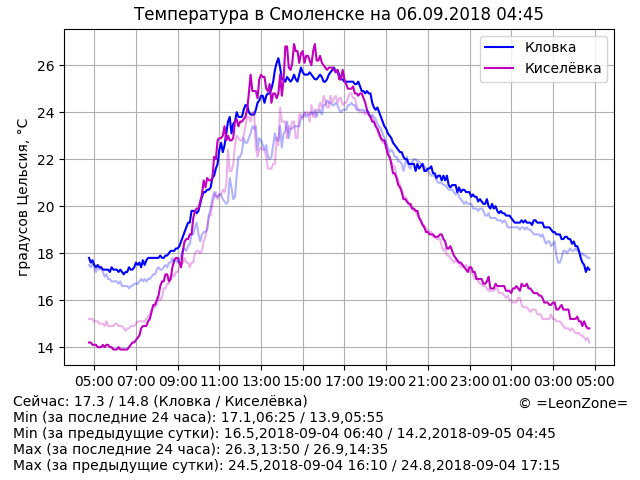
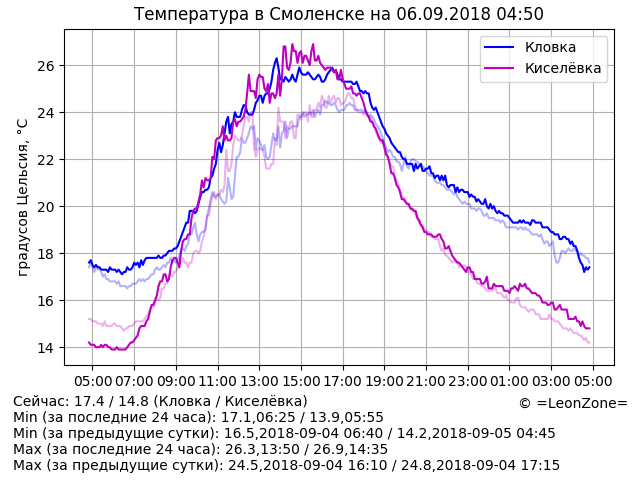
Update data

diff --git a/index.html b/index.html
@@ -14,7 +14,7 @@
 	<p align="center"><script>document.write("<img src=\"graph.png?rnd="+Math.random()+"\" alt=\"Температура в Смоленске\" align=\"middle\" width=\"640\" height=\"480\" />")</script>
 	<p hidden="true">
 <!-- textinfo -->
-Сейчас: 17.3 / 14.8 (Кловка / Киселёвка)
+Сейчас: 17.4 / 14.8 (Кловка / Киселёвка)
 Min (за последние 24 часа): 17.1,06:25 / 13.9,05:55
 Min (за предыдущие сутки): 16.5,2018-09-04 06:40 / 14.2,2018-09-05 04:45
 Max (за последние 24 часа): 26.3,13:50 / 26.9,14:35
